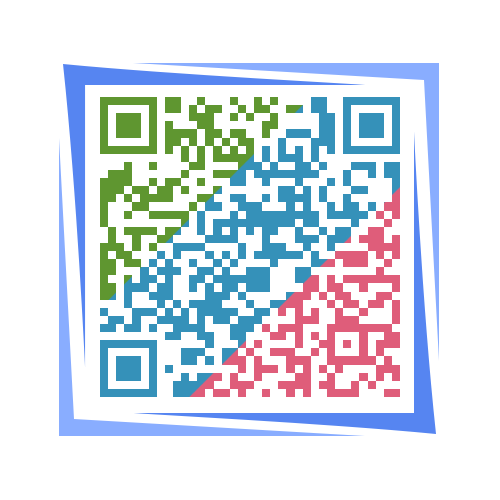
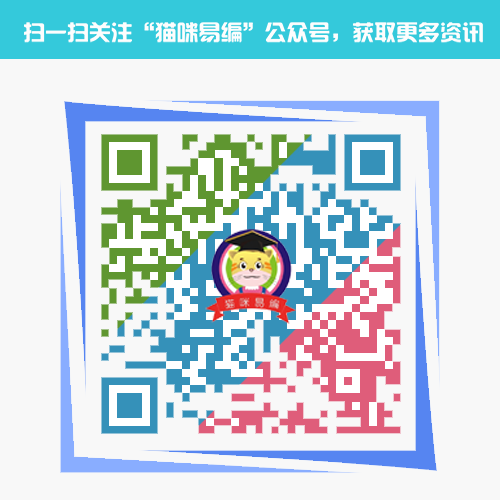
修改轮播图及轮播间隔时间

diff --git a/easycode-customer/src/main/webapp/WEB-INF/views/home.html b/easycode-customer/src/main/webapp/WEB-INF/views/home.html
@@ -29,16 +29,16 @@
 				<div class="swiper-container swiper-container1 hidden-xs">
 					<div class="swiper-wrapper">
 						<div class="swiper-slide">
-							<a href=""><img src="public/img/lunbo1.png" class="img-responsive" /></a>
+							<a href=""><img src="public/img/lunbo1.png?v=20180523" class="img-responsive" /></a>
+						</div>
+					<!-- 	<div class="swiper-slide">
+							<a href=""><img src="public/img/lunbo1.png?v=20180523" class="img-responsive" /></a>
+						</div> -->
+						<div class="swiper-slide">
+							<a href=""><img src="public/img/lunbo3.png?v=20180527" class="img-responsive" /></a>
 						</div>
 						<div class="swiper-slide">
-							<a href=""><img src="public/img/lunbo2.png" class="img-responsive" /></a>
-						</div>
-						<div class="swiper-slide">
-							<a href=""><img src="public/img/lunbo3.png" class="img-responsive" /></a>
-						</div>
-						<div class="swiper-slide">
-							<a href=""><img src="public/img/lunbo4.png" class="img-responsive" /></a>
+							<a href=""><img src="public/img/lunbo4.png?v=20180527" class="img-responsive" /></a>
 						</div>
 					</div>
 					<div class="swiper-pagination"></div>
@@ -51,14 +51,14 @@
 						<div class="swiper-slide">
 							<a href=""><img src="public/img/lunbo1.png" class="img-responsive" /></a>
 						</div>
-						<div class="swiper-slide">
+						<!-- <div class="swiper-slide">
 							<a href=""><img src="public/img/lunbo2.png" class="img-responsive" /></a>
+						</div> -->
+						<div class="swiper-slide">
+							<a href=""><img src="public/img/lunbo3.png?v=20180527" class="img-responsive" /></a>
 						</div>
 						<div class="swiper-slide">
-							<a href=""><img src="public/img/lunbo3.png" class="img-responsive" /></a>
-						</div>
-						<div class="swiper-slide">
-							<a href=""><img src="public/img/lunbo4.png" class="img-responsive" /></a>
+							<a href=""><img src="public/img/lunbo4.png?v=20180527" class="img-responsive" /></a>
 						</div>
 					</div>
 					<div class="swiper-pagination"></div>
@@ -70,7 +70,7 @@
 						spaceBetween: 30,
 						centeredSlides: true,
 						autoplay: {
-							delay: 2500,
+							delay: 4000,
 							disableOnInteraction: false,
 						},
 						pagination: {
@@ -85,7 +85,7 @@
 				</script>
 			</div>
 			<div class="col-md-3 hidden-sm hidden-xs text-center" style="position: relative;">
-				<img src="public/img/erweim.png" class="opinion img-rounded" />
+				<img src="public/img/erweim.png?v=20180527" class="opinion img-rounded" />
 				<a href="editor.html"><img src="public/img/starter.png" class="opinion2" /></a>
 	
 			</div>
